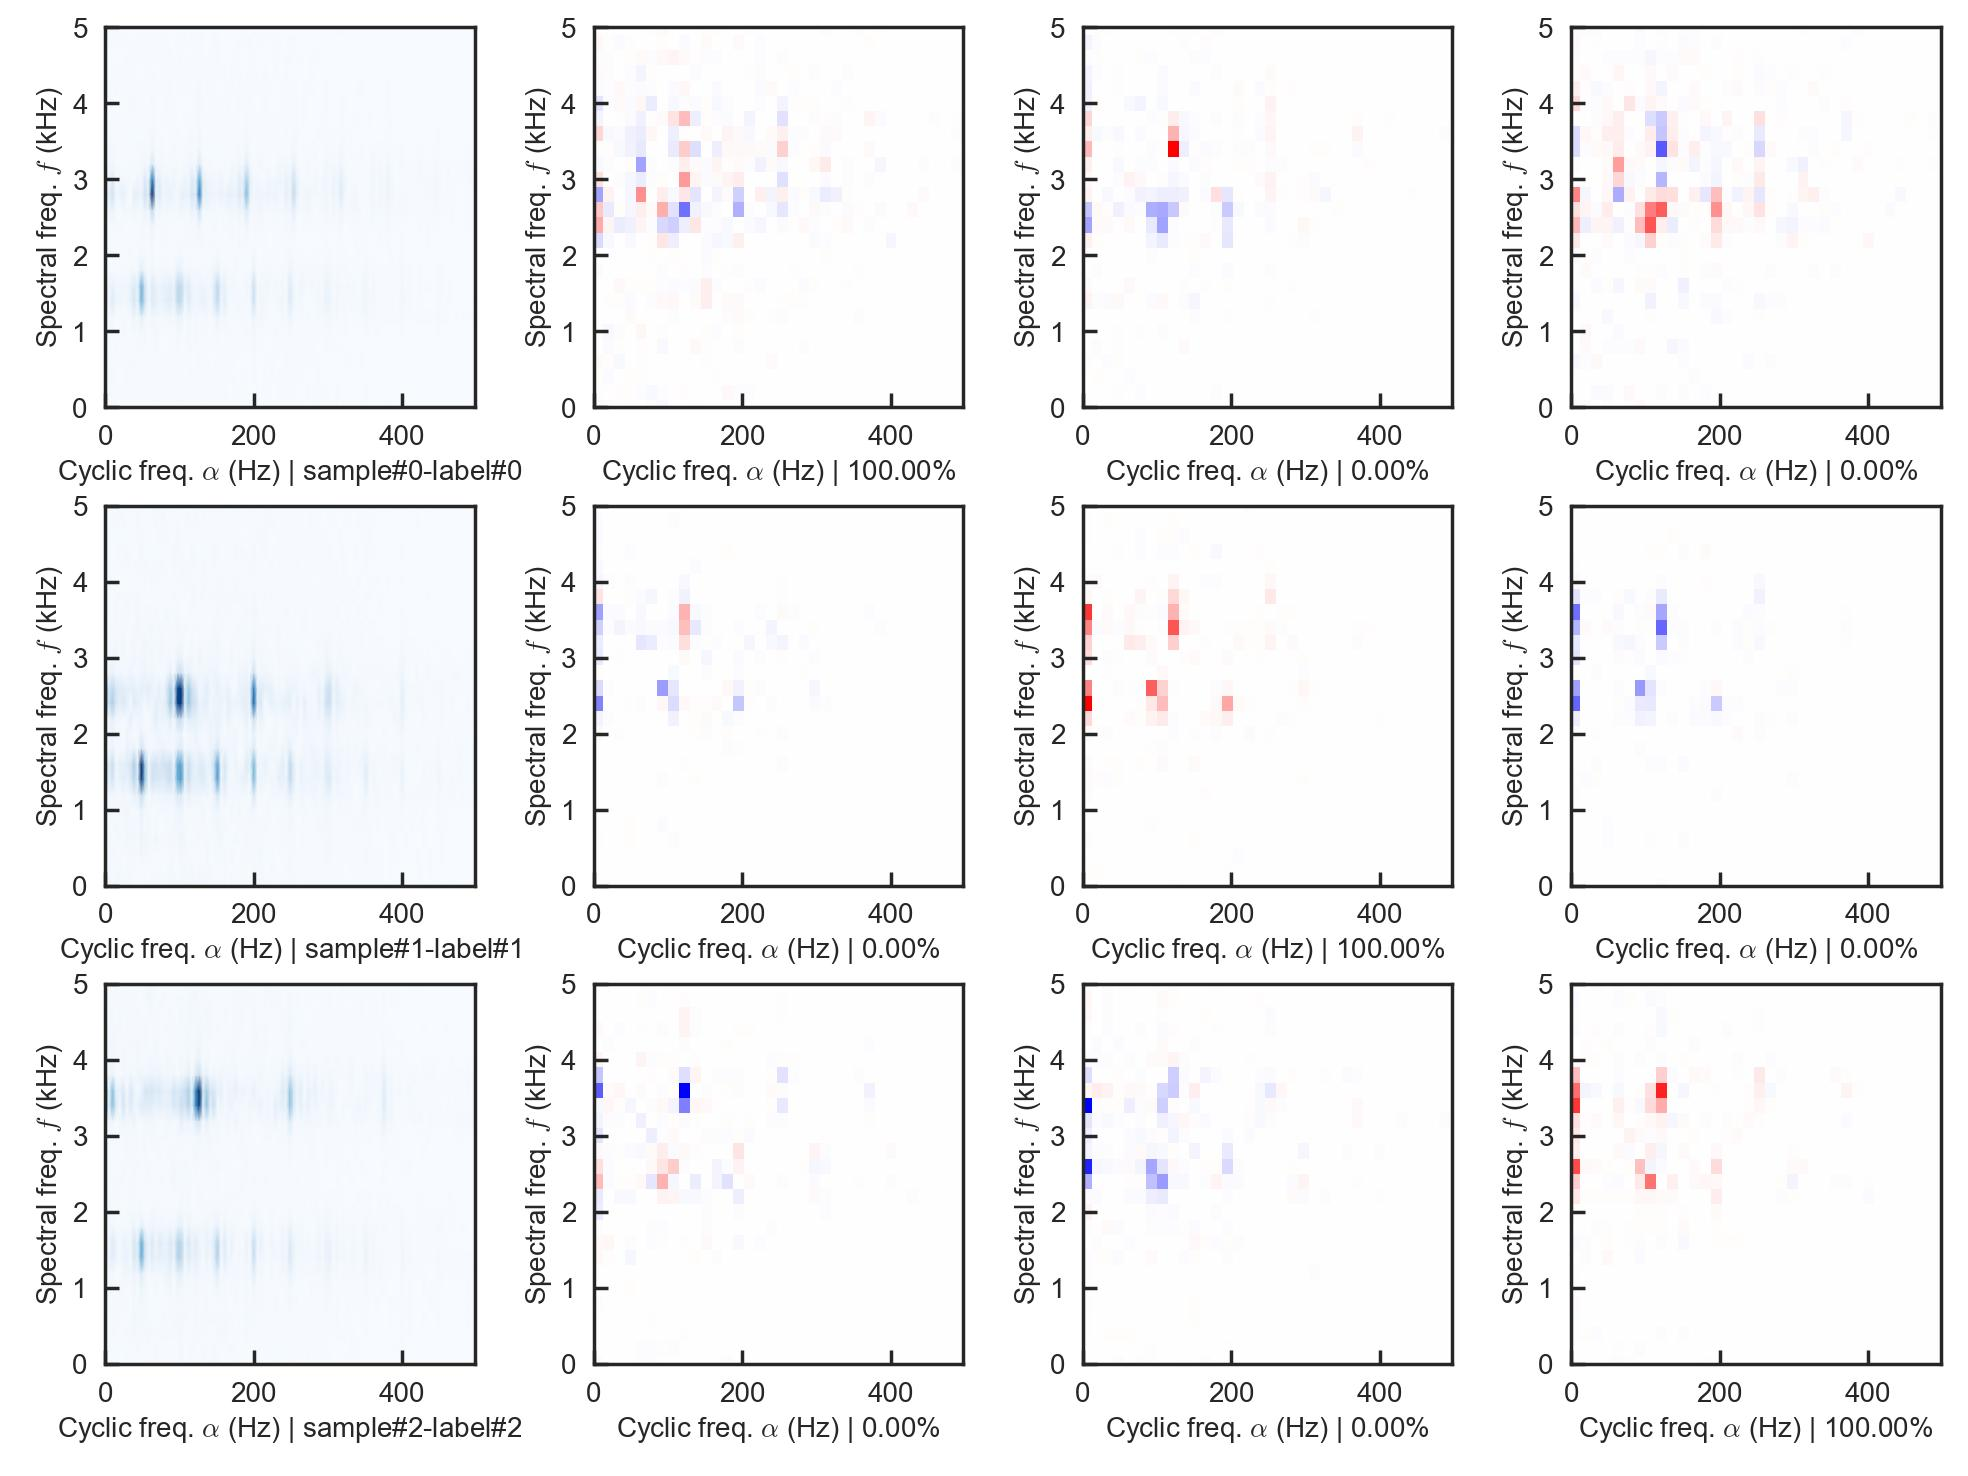
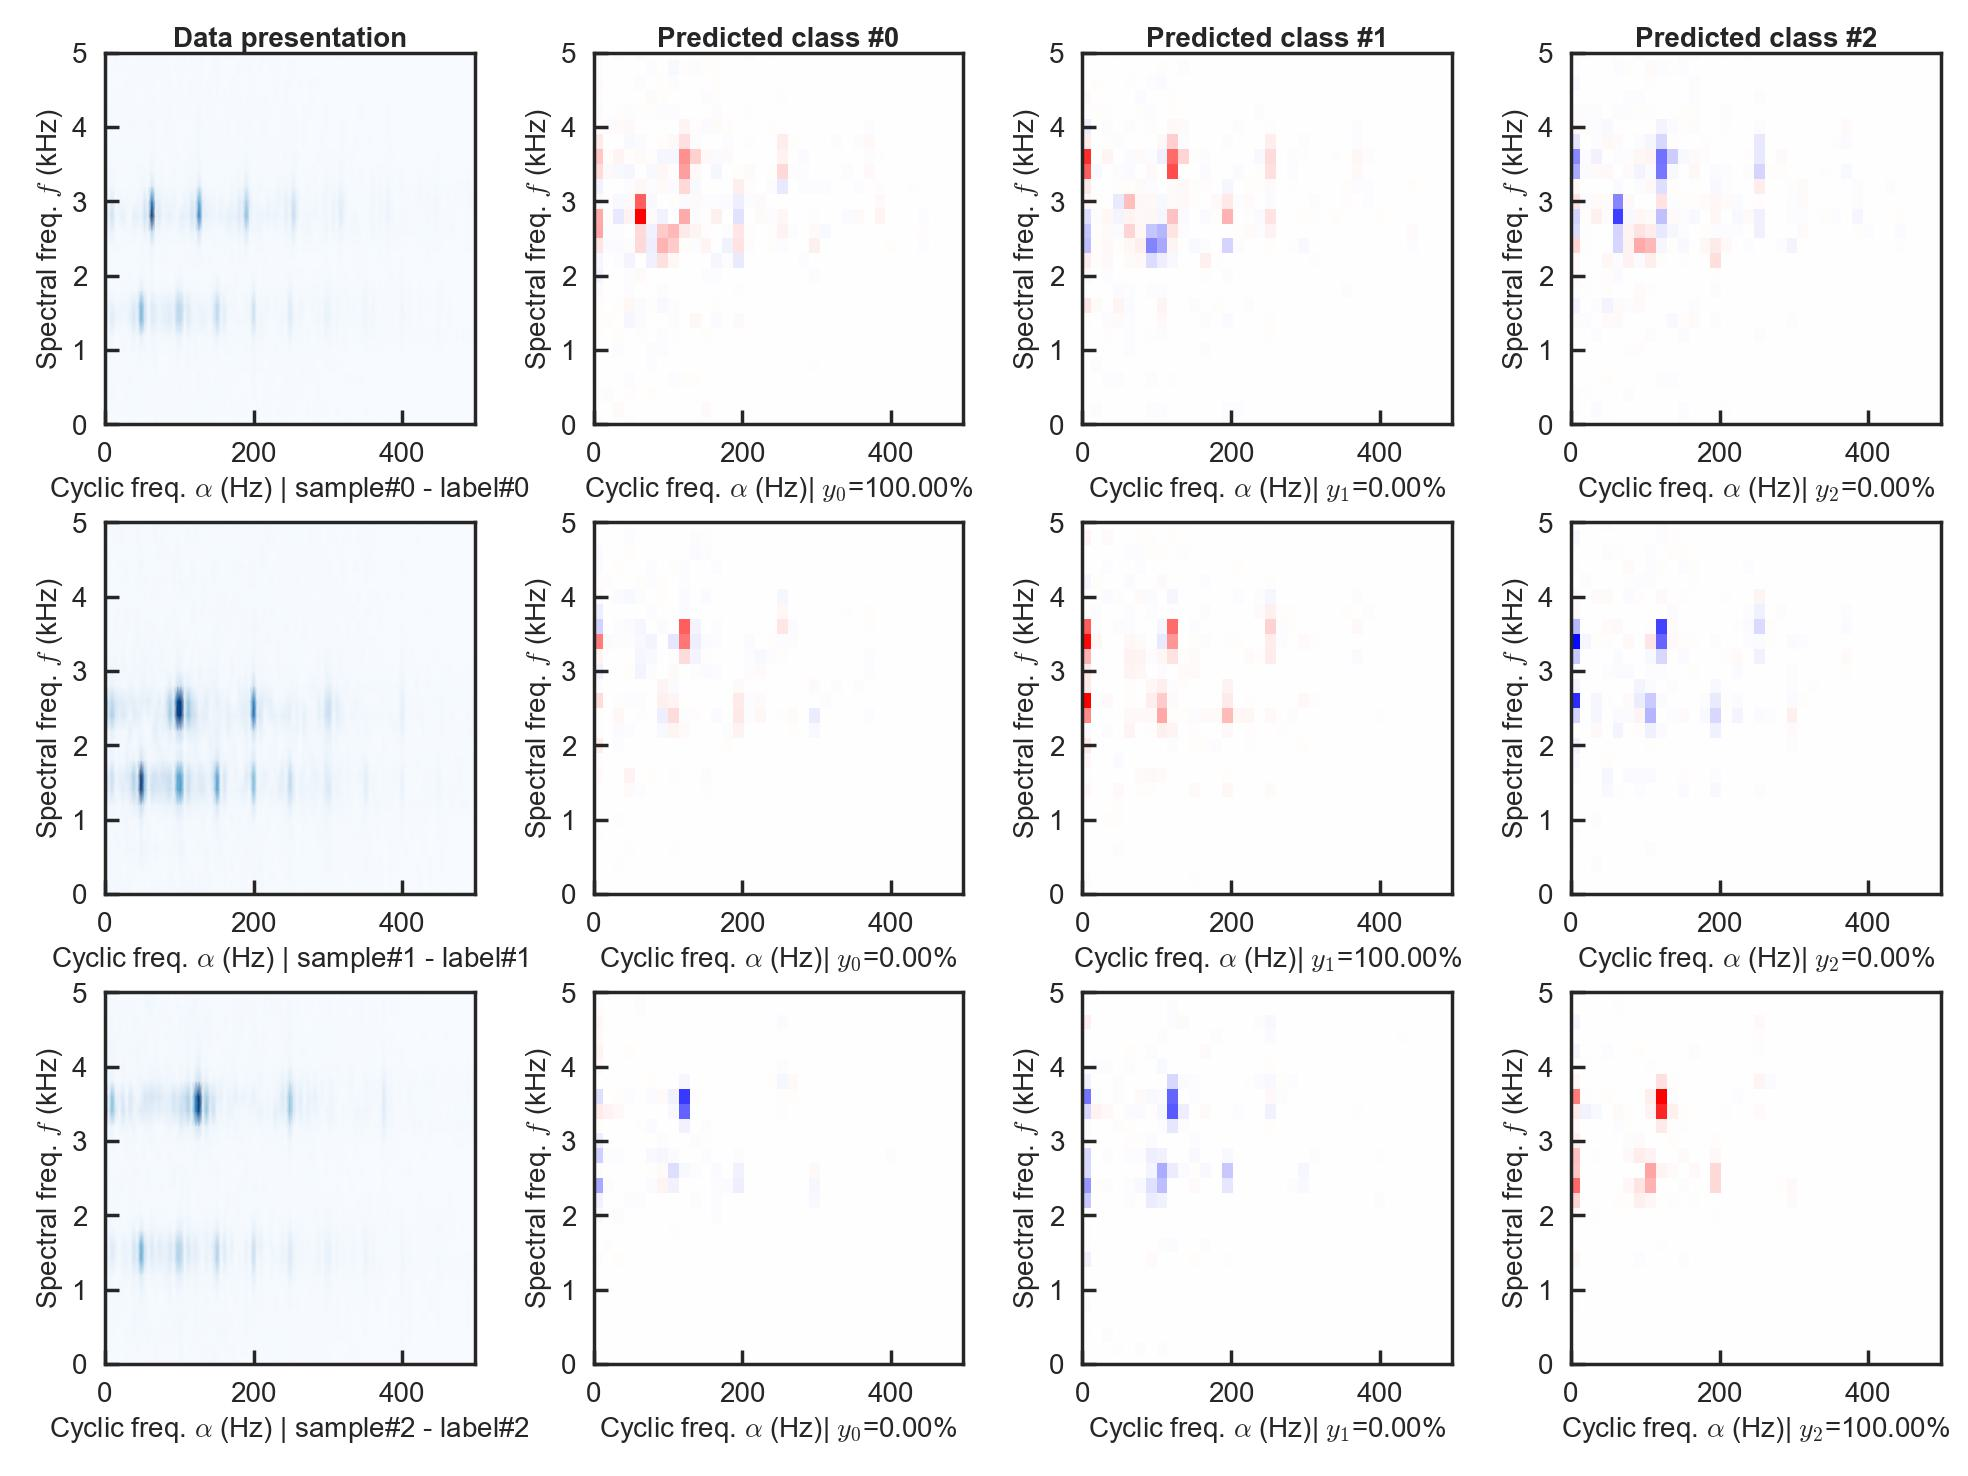
modify figure of SHAP result in README.md

diff --git a/SHAPs/utils_Visualization.py b/SHAPs/utils_Visualization.py
@@ -70,7 +70,7 @@ def attr_visualization(savedir, mode, data, value,plot_params,
             ax = Axes[n][0]
             ax.plot(x, Y_base[n])
             ax.margins(x=0.001)
-            ax.set_xlabel(xlabel + f' | sample#{n}-label#{label[n]:d}')
+            ax.set_xlabel(xlabel + f' | sample#{n} - label#{label[n]:d}')
             ax.set_ylabel('Amp.')
 
         for n in range(N):
@@ -80,7 +80,7 @@ def attr_visualization(savedir, mode, data, value,plot_params,
                 ax = Axes[n][k + 1]
                 ax.plot(x, ys[k], color='C1', alpha=0.8)  # mpl.rcParams['axes.prop_cycle'].by_key()['color'][1]
                 ax.margins(x=0.001)
-                ax.set_xlabel(xlabel + f' | {predict[n, k] * 100:.1f}%')
+                ax.set_xlabel(xlabel + f' | $y_{k}$={predict[n, k] * 100:.1f}%')
                 ax.set_ylim(ylim)
                 ax.set_ylabel(ylabel)
                 # value
@@ -98,7 +98,7 @@ def attr_visualization(savedir, mode, data, value,plot_params,
         for n in range(N):
             ax = Axes[n][0]
             ax.pcolormesh(x, y, Z_base[n], cmap='Blues', shading='gouraud', rasterized=True)
-            ax.set_xlabel(xlabel + f' | sample#{n}-label#{label[n]:d}')
+            ax.set_xlabel(xlabel + f' | sample#{n} - label#{label[n]:d}')
             ax.set_ylabel(ylabel)
 
         for n in range(N):
@@ -107,14 +107,22 @@ def attr_visualization(savedir, mode, data, value,plot_params,
                 ax = Axes[n][k + 1]
                 ax.pcolormesh(x, y, Zs[k, n], cmap='bwr', shading='auto',
                               vmin=-bound, vmax=bound, rasterized=True)
-                ax.set_xlabel(xlabel + f' | {predict[n, k] * 100:.2f}%')
+                ax.set_xlabel(xlabel + f'| $y_{k}$={predict[n, k] * 100:.2f}%')
                 ax.set_ylabel(ylabel)
                 ax.set_xticks(Axes[n][0].get_xticks())
                 ax.set_yticks(Axes[n][0].get_yticks())
                 ax.set_xlim(Axes[n][0].get_xlim())
                 ax.set_ylim(Axes[n][0].get_ylim())
 
-    # 3) uniform the ticks and save
+    # 3) add title
+    for k in range(K + 1):
+        ax = Axes[0][k]
+        if k == 0:
+            ax.set_title('Data presentation', fontweight='bold')
+        else:
+            ax.set_title(f'Predicted class #{k - 1:d}', fontweight='bold')
+
+    # 4) uniform the ticks and save
     gs.tight_layout(fig, pad=1, h_pad=0.5, w_pad=1.5, rect=None)
     for n in range(N):
         for k in range(K + 1):

diff --git a/Demo/Demo_analysis.py b/Demo/Demo_analysis.py
@@ -1,7 +1,7 @@
 '''
 2025/04/13
 Created by ChenQian-SJTU 
-This script is used to analyze the SHAP values of the models under different situations (e.g., models, transform function, etc.)
+This script is used to analyze the SHAP values of the models under different situations (e.g., model, transform function, etc.)
 '''
 import sys,os
 def root_path_k(x, k): return os.path.abspath(os.path.join(x, *([os.pardir] * (k + 1))))
